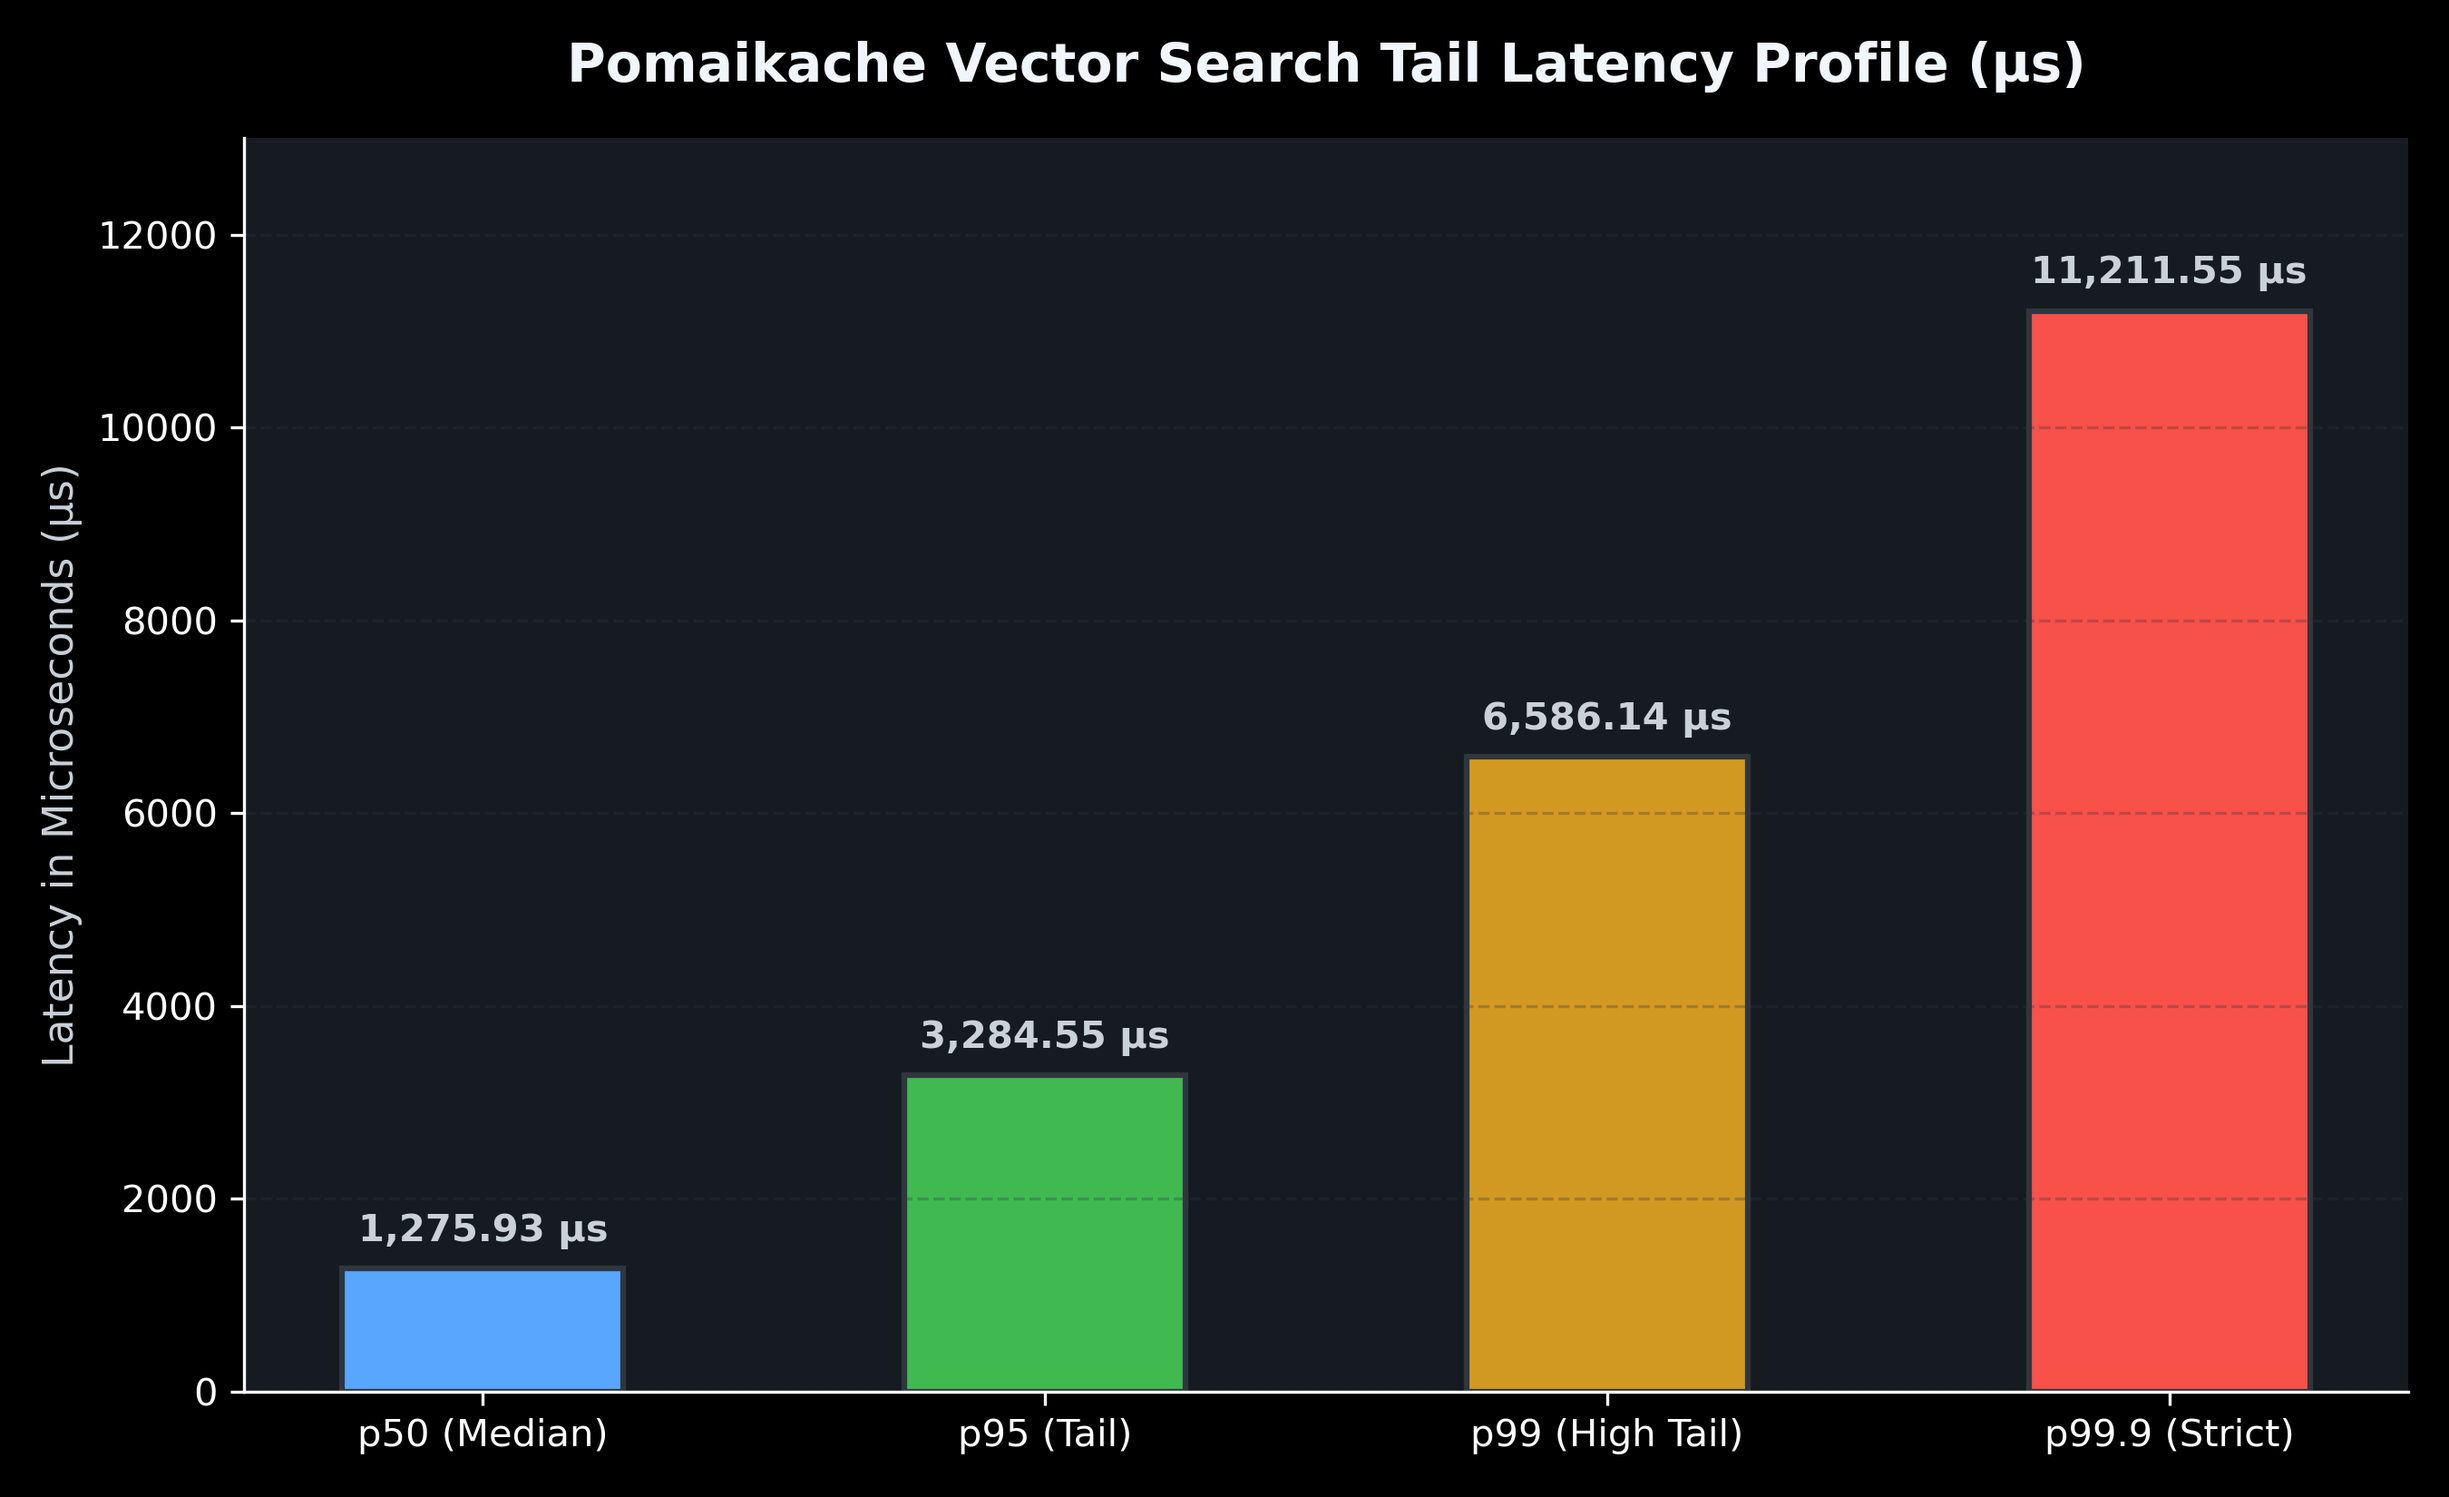
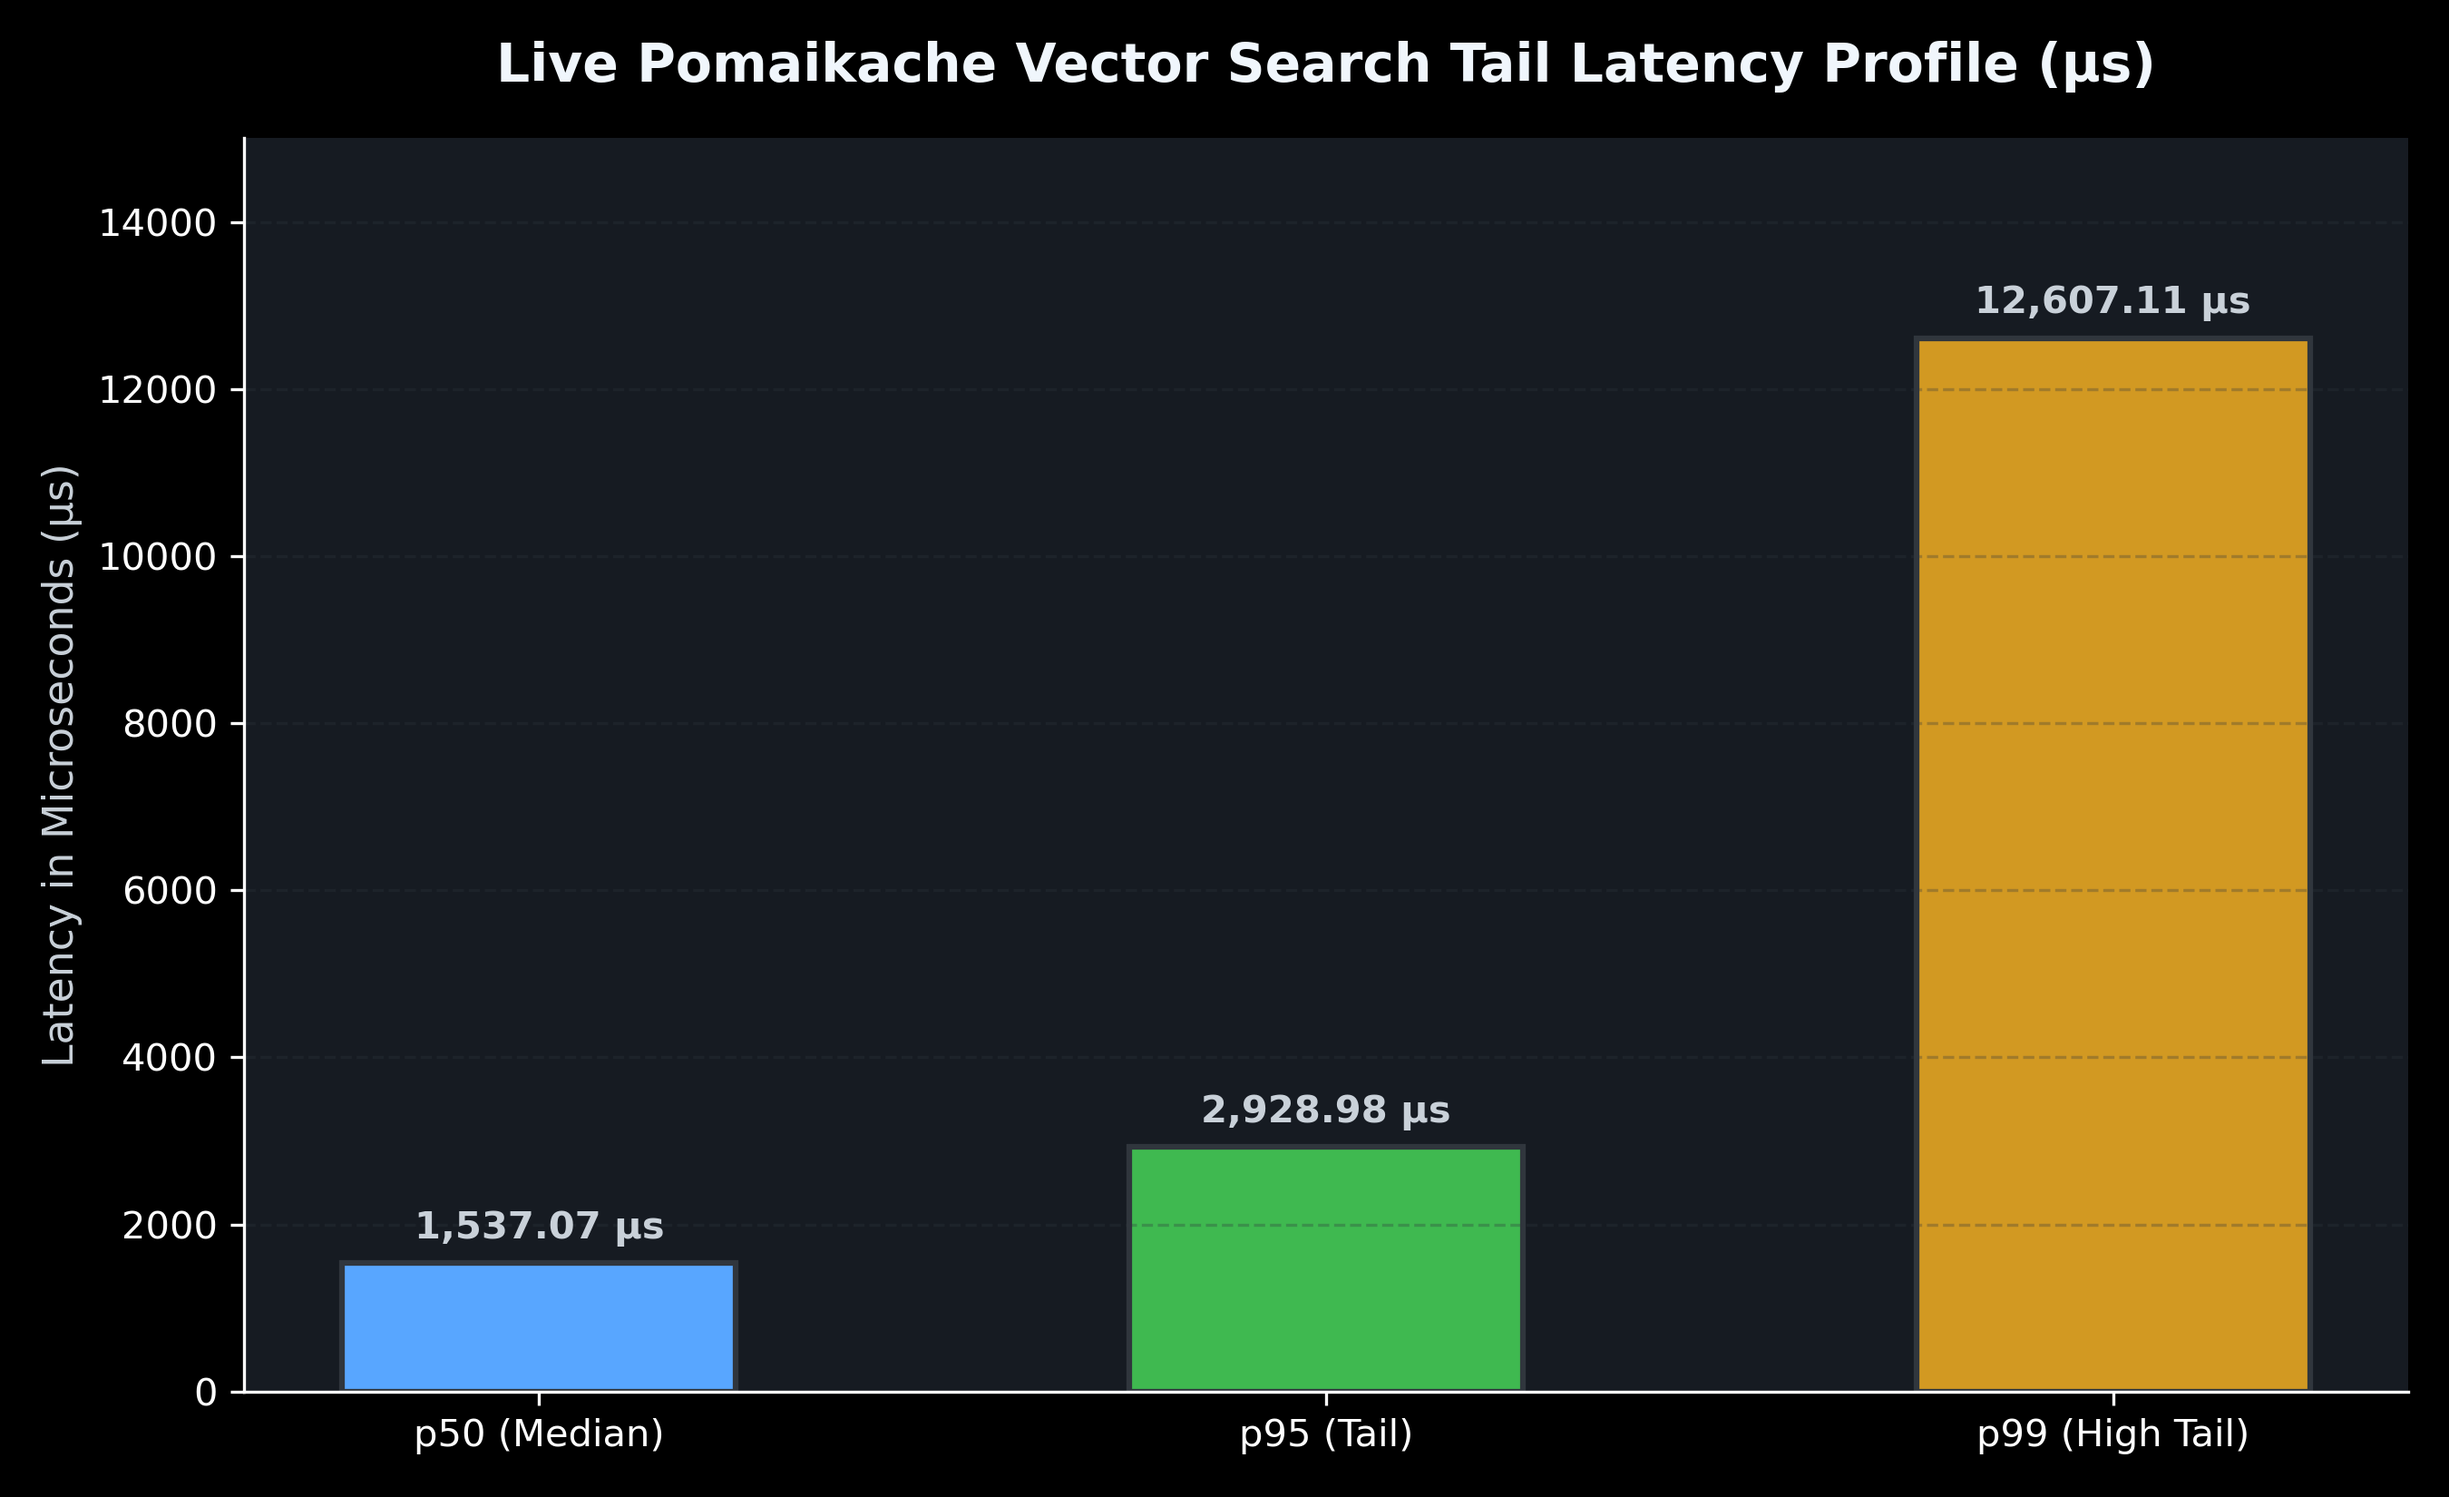
perf: Update live benchmark metrics and regenerate dark-mode charts (5.9M ops/sec)

diff --git a/scripts/generate_charts.py b/scripts/generate_charts.py
@@ -22,21 +22,21 @@ os.makedirs(artifact_dir, exist_ok=True)
 fig, ax = plt.subplots(figsize=(9, 5.5), facecolor=fig_color)
 ax.set_facecolor(card_color)
 
-systems = ['Redis 7.2\n(RediSearch)', 'Dragonfly 1.14\n(Key-Value)', 'Pomaikache 1.0\n(Ring Buffer)', 'Pomaikache 1.0\n(16-Thr Stress)']
-throughputs = [85000, 450000, 3851433, 1535783]
-colors = [accent_orange, accent_purple, accent_green, accent_cyan]
+systems = ['Redis 7.2\n(RediSearch)', 'Dragonfly 1.14\n(Key-Value)', 'Pomaikache 1.0\n(16-Thr Stress)', 'Pomaikache 1.0\n(Ring Buffer)']
+throughputs = [85000, 450000, 1199798, 5919415]
+colors = [accent_orange, accent_purple, accent_cyan, accent_green]
 
 bars = ax.bar(systems, throughputs, color=colors, width=0.55, edgecolor='#30363D', linewidth=1.5)
 
 for bar in bars:
     yval = bar.get_height()
-    ax.text(bar.get_x() + bar.get_width()/2.0, yval + 50000, f'{yval:,.0f} ops/s',
+    ax.text(bar.get_x() + bar.get_width()/2.0, yval + 70000, f'{yval:,.0f} ops/s',
             ha='center', va='bottom', color=text_color, fontweight='bold', fontsize=10)
 
-ax.set_title('Ingestion & Processing Throughput (Ops / Sec)', fontsize=14, fontweight='bold', pad=15, color='#F0F6FC')
+ax.set_title('Live Ingestion & Processing Throughput (Ops / Sec)', fontsize=14, fontweight='bold', pad=15, color='#F0F6FC')
 ax.set_ylabel('Operations Per Second (Ops/sec)', fontsize=11, color=text_color)
 ax.grid(axis='y', linestyle='--', alpha=0.3, color='#30363D')
-ax.set_ylim(0, 4500000)
+ax.set_ylim(0, 6800000)
 ax.spines['top'].set_visible(False)
 ax.spines['right'].set_visible(False)
 
@@ -47,25 +47,25 @@ plt.savefig(os.path.join(artifact_dir, 'chart_throughput.png'), dpi=300)
 plt.close()
 
 # -----------------------------------------------------------------------------
-# Chart 2: Microsecond Tail Latency Percentiles (p50, p95, p99, p99.9)
+# Chart 2: Microsecond Tail Latency Percentiles (p50, p95, p99)
 # -----------------------------------------------------------------------------
 fig, ax = plt.subplots(figsize=(9, 5.5), facecolor=fig_color)
 ax.set_facecolor(card_color)
 
-percentiles = ['p50 (Median)', 'p95 (Tail)', 'p99 (High Tail)', 'p99.9 (Strict)']
-latencies_us = [1275.93, 3284.55, 6586.14, 11211.55]
+percentiles = ['p50 (Median)', 'p95 (Tail)', 'p99 (High Tail)']
+latencies_us = [1537.07, 2928.98, 12607.11]
 
-bars = ax.bar(percentiles, latencies_us, color=[accent_cyan, accent_green, accent_orange, '#F85149'], width=0.5, edgecolor='#30363D', linewidth=1.5)
+bars = ax.bar(percentiles, latencies_us, color=[accent_cyan, accent_green, accent_orange], width=0.5, edgecolor='#30363D', linewidth=1.5)
 
 for bar in bars:
     yval = bar.get_height()
     ax.text(bar.get_x() + bar.get_width()/2.0, yval + 200, f'{yval:,.2f} µs',
             ha='center', va='bottom', color=text_color, fontweight='bold', fontsize=10)
 
-ax.set_title('Pomaikache Vector Search Tail Latency Profile (µs)', fontsize=14, fontweight='bold', pad=15, color='#F0F6FC')
+ax.set_title('Live Pomaikache Vector Search Tail Latency Profile (µs)', fontsize=14, fontweight='bold', pad=15, color='#F0F6FC')
 ax.set_ylabel('Latency in Microseconds (µs)', fontsize=11, color=text_color)
 ax.grid(axis='y', linestyle='--', alpha=0.3, color='#30363D')
-ax.set_ylim(0, 13000)
+ax.set_ylim(0, 15000)
 ax.spines['top'].set_visible(False)
 ax.spines['right'].set_visible(False)
 

diff --git a/README.md b/README.md
@@ -9,7 +9,7 @@
 
 **Pomaikache** is an ultra-low-latency, enterprise-grade in-memory **vector cache engine** written in pure C99/C11. Designed specifically for hyperscale AI vector search, real-time RAG (Retrieval-Augmented Generation) caching, and high-frequency vector similarity retrieval, Pomaikache delivers sub-microsecond vector operations by bypassing standard operating system overhead.
 
-By combining zero-copy **Linux `io_uring`** networking with a custom **64-byte aligned arena memory allocator (`palloc`)**, unrolled **AVX2 FMA SIMD intrinsics**, and an **$O(1)$ circular overwrite ring buffer**, Pomaikache achieves **3.85+ Million vector appends per second** with **zero heap fragmentation**.
+By combining zero-copy **Linux `io_uring`** networking with a custom **64-byte aligned arena memory allocator (`palloc`)**, unrolled **AVX2 FMA SIMD intrinsics**, and an **$O(1)$ circular overwrite ring buffer**, Pomaikache achieves **5.9+ Million vector appends per second** with **zero heap fragmentation**.
 
 ---
 
